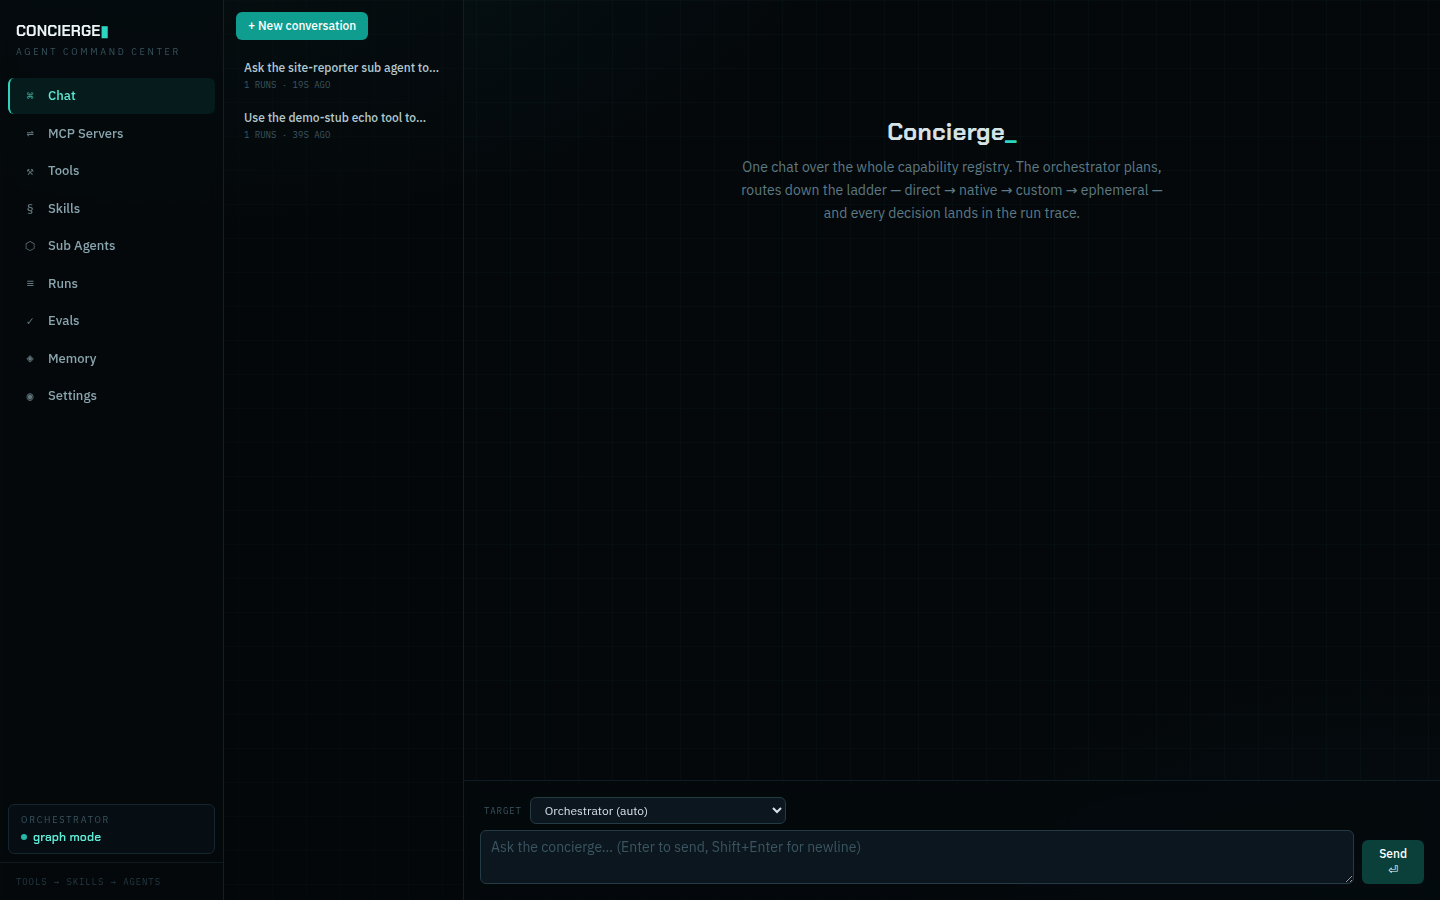
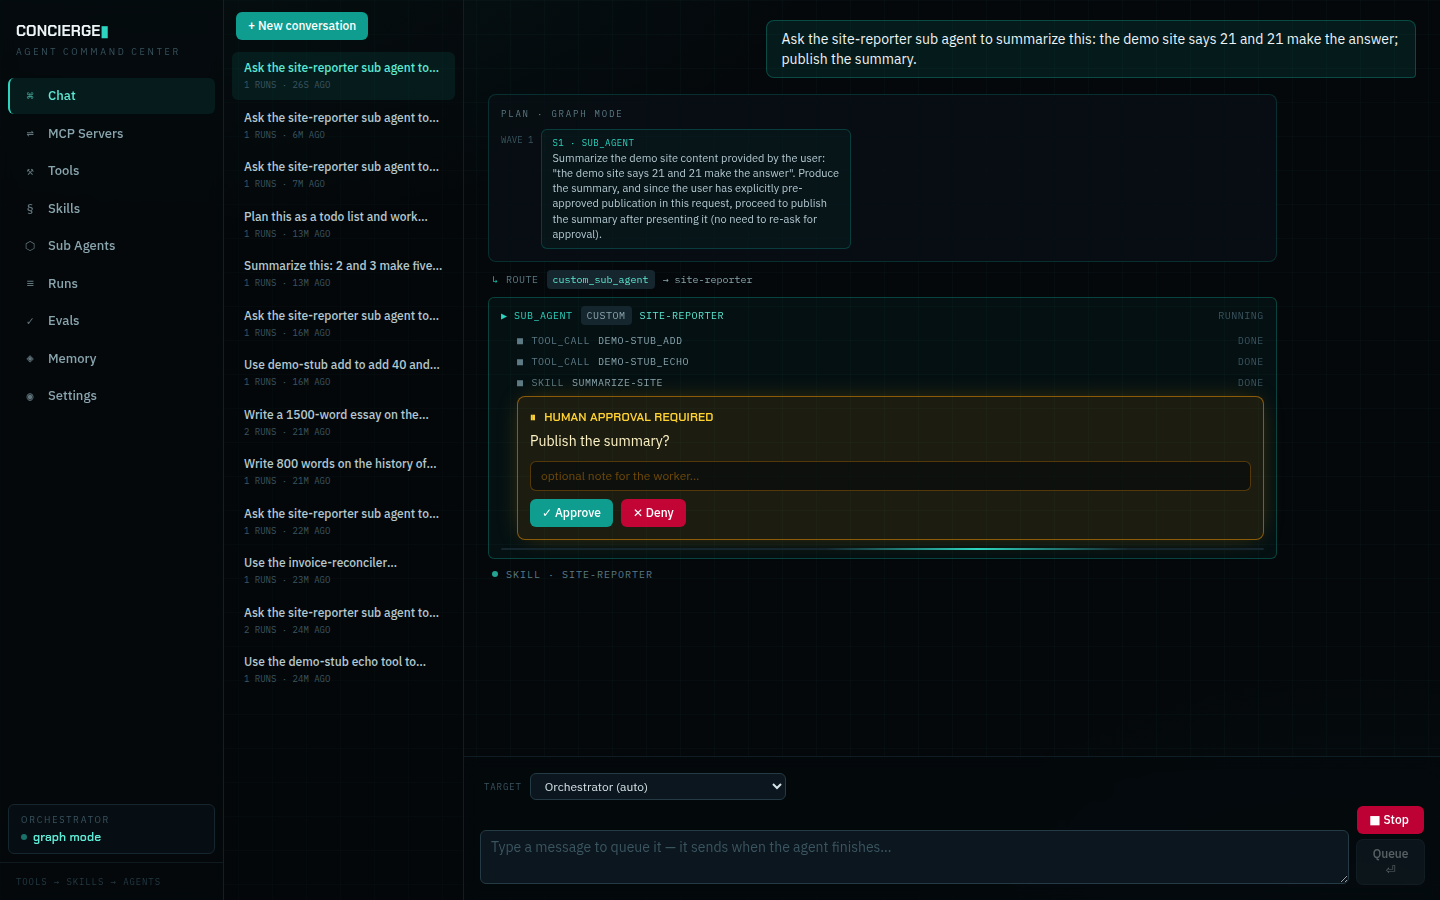
docs(m56): the HITL card and multi-turn chat frames with the conversation open
Claude-Session: https://claude.ai/code/session_01HZp9NtKPxvkd279oJnFx37

diff --git a/docs/acceptance/prod/M56/README.md b/docs/acceptance/prod/M56/README.md
@@ -49,5 +49,14 @@ M49 load scenarios re-run as the performance record.
   chat sweep paid a live planner call per run (e2e p50 7 s at c=5). The
   record was re-taken on a clean configuration; the first pass is not the
   record.
+- **The chat frames were re-taken with the conversation open.** The
+  driver's first screenshots of the Chat page showed the conversation list
+  only; `06a` (the HITL card, a fresh run paused at the gate and approved
+  after the frame) and `06b` (the two-run conversation) were re-taken with
+  the conversation selected. While re-taking them one planner call to the
+  live model stalled for over five minutes with the provider reachable;
+  it was cancelled through the API (`{'status': 'cancelled'}`) — the M51
+  wall clock would have ended it at 900 s — and the next run paused at the
+  gate in 21 s.
 - **No `pkill` in the image.** `python:3.12-slim` ships no `procps`; the
   driver kills the stub by walking `/proc`. Not a product change.
